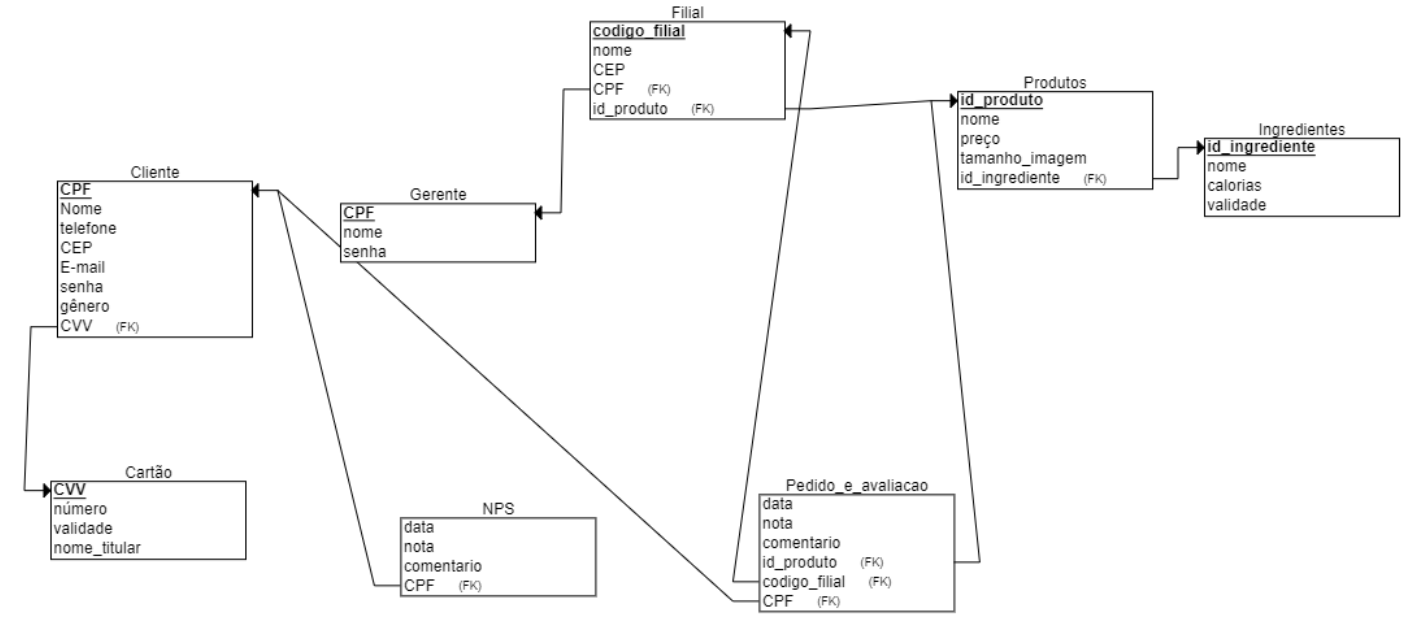
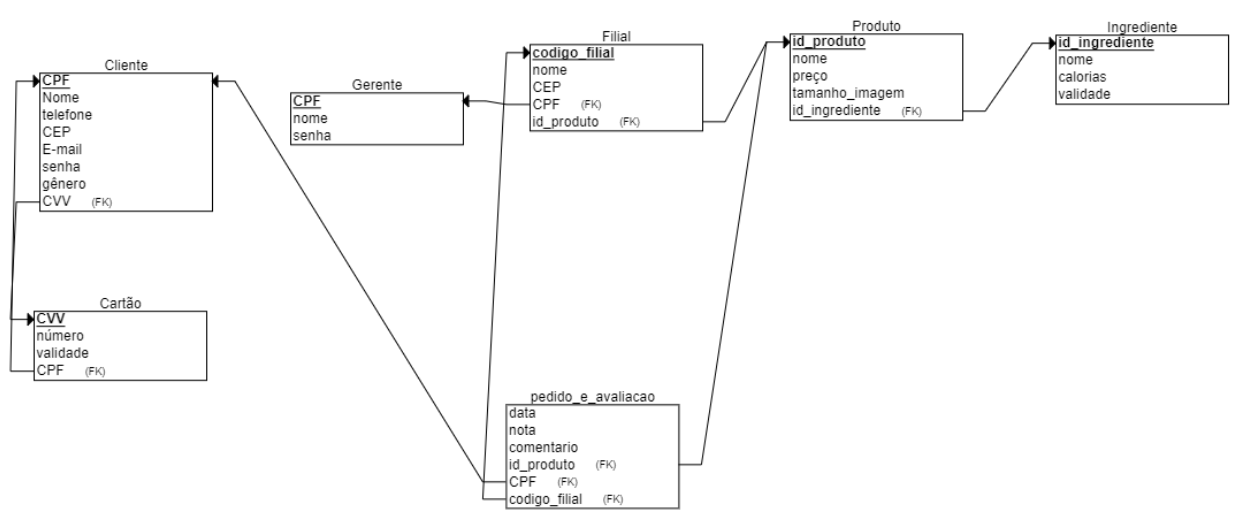
Ajuste para cartao ter cpf do titular para mesma pessoa ter varios cartoes e cada cartao so ser de uma pessoa na hr de inserir

diff --git a/README.md b/README.md
@@ -27,8 +27,7 @@ O objetivo desse projeto é implementar um sistema de banco de dados para o  apl
 
 # DDL
 
-```sql
--- Apagar todas as tabelas considerando dependências
+```sql-- Apagar todas as tabelas considerando dependências
 drop table if exists gerente cascade;
 drop table if exists filial cascade;
 drop table if exists cliente cascade;
@@ -43,7 +42,7 @@ create table cartao
     (cvv	text, 
     numero	text, 
     validade text,
-    nome_titular text,
+   --cpf titular como chave estrangeira
     primary key (cvv)
     );
 
@@ -107,5 +106,8 @@ create table produto
     foreign key (cpf_cliente) references cliente (cpf_cliente),
     foreign key (codigo_filial) references filial (codigo_filial)
     );
+
+ALTER TABLE cartao 
+ADD COLUMN cpf_titular TEXT REFERENCES cliente(cpf_cliente);
 
 ```
